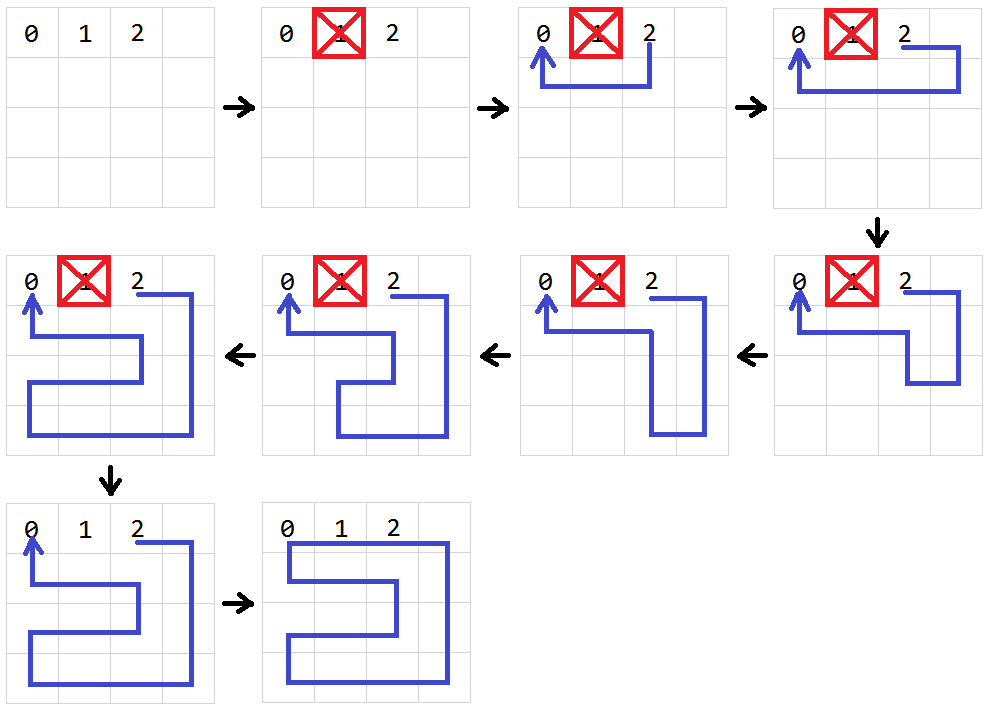
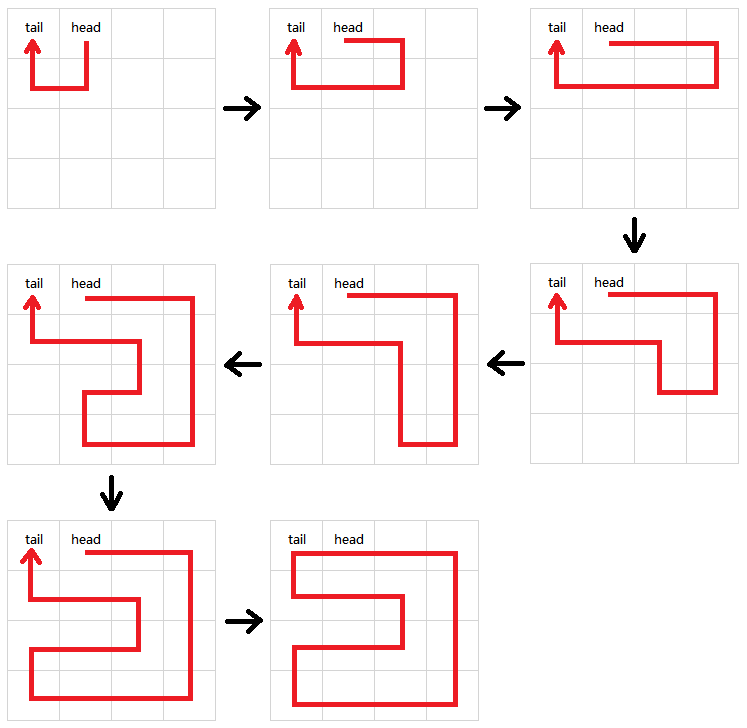
Update algorithms doc: add hamilton solver

diff --git a/docs/algorithms.md b/docs/algorithms.md
@@ -8,6 +8,9 @@
         - [Shortest Path](#shortest-path)
         - [Longest Path](#longest-path)
     - [Greedy Solver](#greedy-solver)
+    - [Hamilton Solver](#hamilton-solver)
+        - [Build a Hamiltonian Cycle](#build-a-hamiltonian-cycle)
+        - [Take Shortcuts](#take-shortcuts)
 - [References](#references)
 
 <!-- /TOC -->
@@ -56,11 +59,30 @@ Concretely, to find the snake **S1**'s next moving direction **D**, the solver f
 4. Compute the longest path **P3** from **S1**'s head to its tail. If **P3** exists, let **D** be the first direction in path **P3**. Otherwise, go to step 5.
 5. Let **D** be the direction that makes **S1** the farthest from the food.
 
+<a id="markdown-hamilton-solver" name="hamilton-solver"></a>
+### Hamilton Solver
+
+[Hamilton Solver][hamiltonsolver-src] builds a hamiltonian cycle on the game map first and then directs the snake to eat the food along the cycle path. To reduce the average steps the snake takes to success, the solver enables the snake to take shortcuts if possible. The solver depends on [Path Solver](#path-solver) to find the longest path on the game map.
+
+<a id="markdown-build-a-hamiltonian-cycle" name="build-a-hamiltonian-cycle"></a>
+#### Build a Hamiltonian Cycle
+
+Before the snake starts moving, Hamilton Solver finds the [longest path](#longest-path) from the snake's head to its tail, which forms a hamiltonian cycle on the map:
+
+![][build-hamilton-img]
+
+<a id="markdown-take-shortcuts" name="take-shortcuts"></a>
+#### Take Shortcuts
+
+Following a fixed cycle path all the time is tedious. Hamilton Solver directs the snake to take shortcuts according to the rules below. [2]
+
+![][take-shortcuts-img]
+
 <a id="markdown-references" name="references"></a>
 ## References
 
-1. Lockhart, C., Application of temporal difference learning to the game of Snake. *Electronic Theses and Dissertations* 848 (2010).
-
+1. Lockhart, C., Application of temporal difference learning to the game of Snake. *Electronic Theses and Dissertations* 848 (2010). [[Link]][link-ref-1]
+2. Tapsell, J., Nokia 6110 Part 3 – Algorithms. (2015). [[Link]][link-ref-2]
 
 [snake-wiki]: https://en.wikipedia.org/wiki/Snake_(video_game)
 [longest-path-wiki]: https://en.wikipedia.org/wiki/Longest_path_problem
@@ -71,3 +93,8 @@ Concretely, to find the snake **S1**'s next moving direction **D**, the solver f
 [hamiltonsolver-src]: ../snake/solver/hamilton.py
 
 [build-longest-img]: ./images/build_longest.png
+[build-hamilton-img]: ./images/build_hamilton.png
+[take-shortcuts-img]: ./images/take_shortcuts.png
+
+[link-ref-1]: https://doi.org/10.18297/etd/848
+[link-ref-2]: https://johnflux.com/2015/05/02/nokia-6110-part-3-algorithms/

diff --git a/README.md b/README.md
@@ -17,7 +17,7 @@ Test results (N=1000):
 
 | Solver | Demo | Success Rate | Average Steps |
 | :----: | :--: | :----------: | :-----------: |
-|Hamilton|![][demo-hamilton]|100.0%|1776|
+|[Hamilton][hamilton-doc]|![][demo-hamilton]|100.0%|1776|
 |[Greedy][greedy-doc]|![][demo-greedy]|27.4%|1575|
 
 ## Installation
@@ -52,6 +52,7 @@ See the [LICENSE](./LICENSE) file for license rights and limitations.
 [tkinter-doc]: https://docs.python.org/3.6/library/tkinter.html
 [algorithms-doc]: ./docs/algorithms.md
 [greedy-doc]: ./docs/algorithms.md#greedy-solver
+[hamilton-doc]: ./docs/algorithms.md#hamilton-solver
 
 [demo-hamilton]: ./docs/images/solver_hamilton.gif
 [demo-greedy]: ./docs/images/solver_greedy.gif